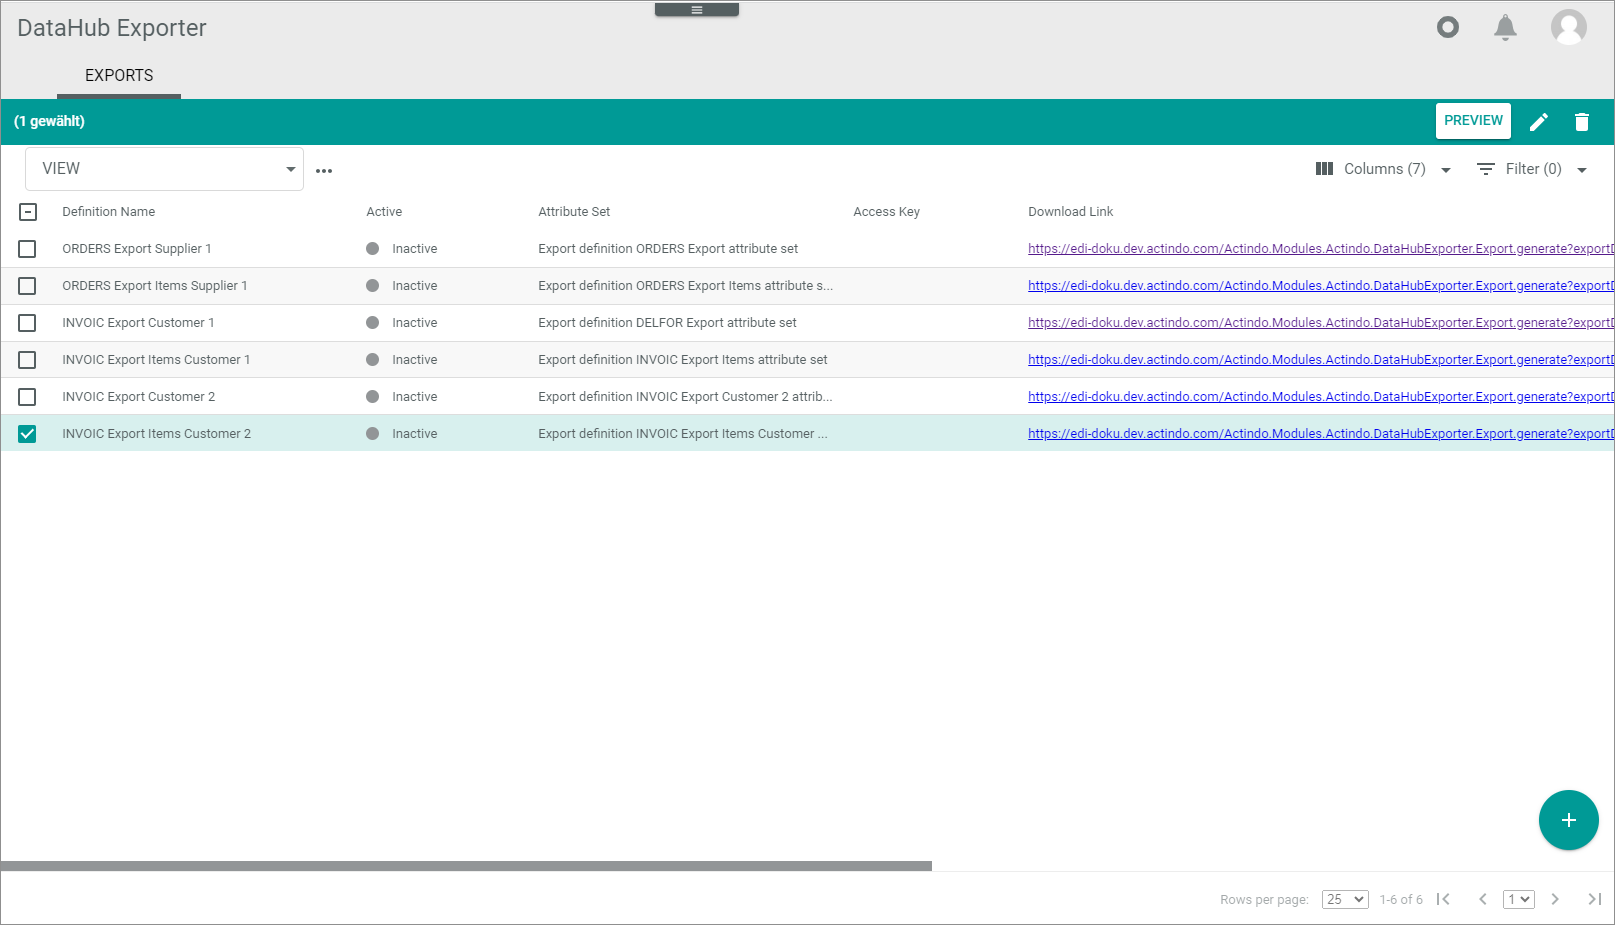
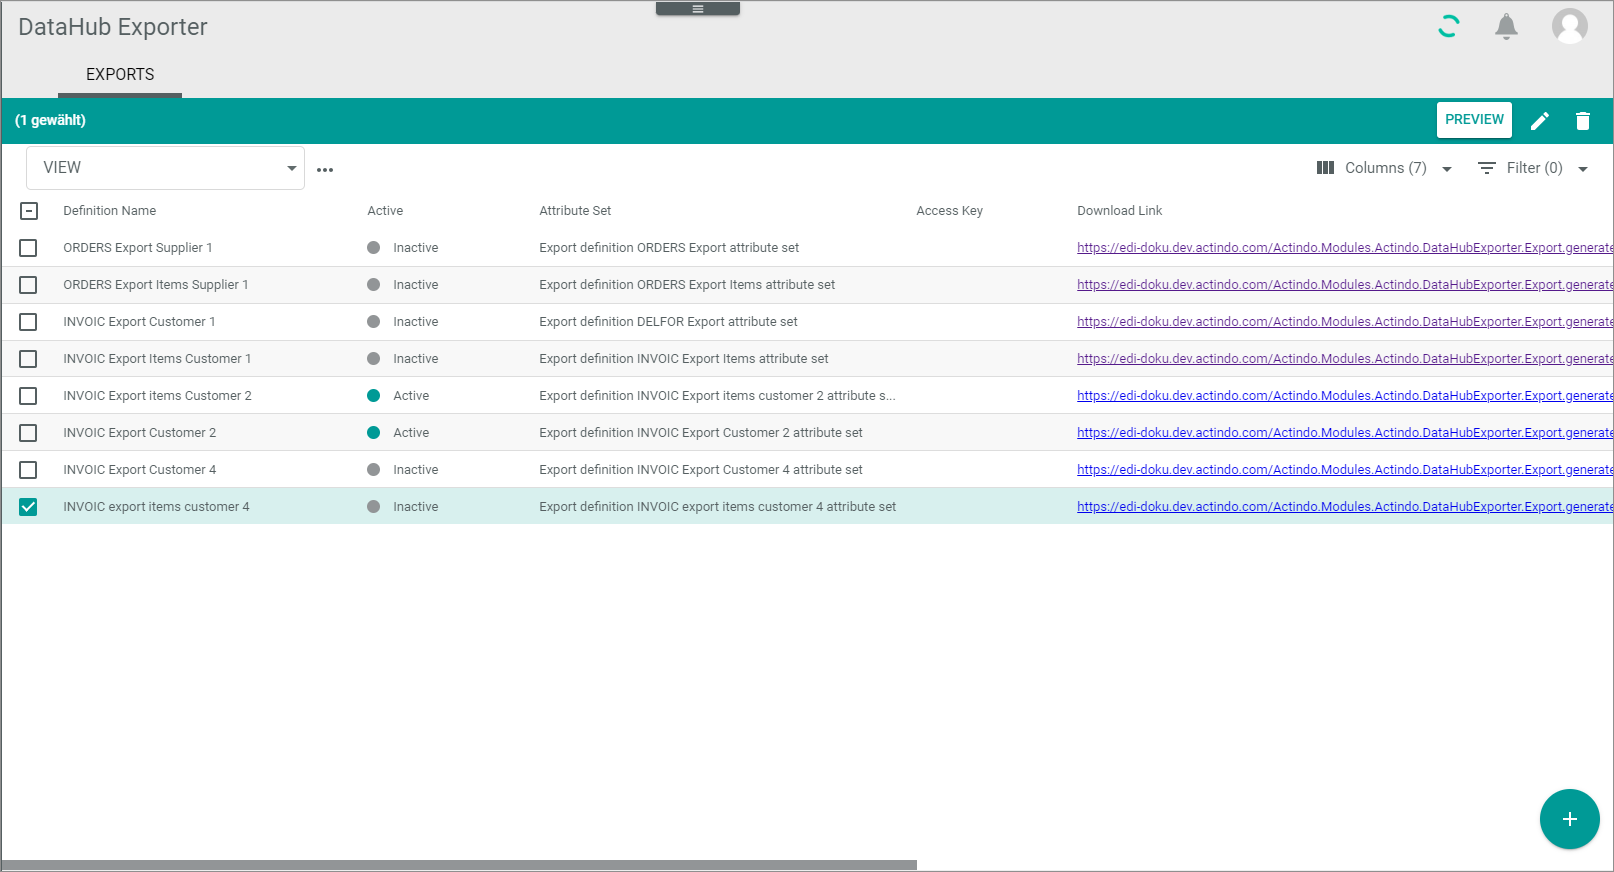
ACD-947

diff --git a/EDI/Operation/01_ManageDefinitions.md b/EDI/Operation/01_ManageDefinitions.md
@@ -43,7 +43,7 @@ Define basic data for the export definition. You must define a definition settin
            
     For example, *INVOIC Export items "customer name"*.
 
-3. Click the *Template engine* drop-down list and select the **XmlExportTemplateEngine**.
+3. Click the *Template engine* drop-down list and select the **XmlExportTemplateEngine**.   
     The view has been changed. Two tabs are inserted now, the *Settings* tab and the *File settings* tab. The *Settings* tab is displayed.
 
     ![Tabs added](../../Assets/Screenshots/EDI/Operation/ExportDefinitionCreateAfterSelection.png "[Tabs added]")
@@ -123,9 +123,9 @@ After you have configured the entire definition, you can preview the message tha
 
 ![Export definitions](../../Assets/Screenshots/EDI/Operation/ExportDefinitions.png "[Export definitions]")
 
-1. Click the checkbox of the definition you want to preview.   
-    The toolbar is displayed. Alternatively, you can click the download link of a definition in the list to output the preview directly.
-    The toolbar is displayed.
+1. Click the checkbox of the definition you want to preview. Alternatively, you can click the download link of a definition in the list to output the preview directly.   
+    The toolbar is displayed. 
+    
 
     ![Toolbar](../../Assets/Screenshots/EDI/Operation/ExportDefinitionToolbar.png "[Toolbar]")
 
@@ -134,12 +134,13 @@ After you have configured the entire definition, you can preview the message tha
 
     ![Preview](../../Assets/Screenshots/EDI/Operation/ExportDefinitionPreview.png "[Preview]")
 
+<!----Weglassen? 
 3. If desired, and you do not want to define the preview attributes before, click the *Export all* toggle to preview all definitions at once. Prerequisite for this is that the *Entity type* in the *Data source* definition is filled, see [Define data sources](./04_ManageDataSources.md#define-data-sources).
     The window displays the *Preview all* toggle only.
 
-    ![Preview all](../../Assets/Screenshots/EDI/Operation/ExportDefinitionPreviewAll.png "[Preview all]")
+    ![Preview all](../../Assets/Screenshots/EDI/Operation/ExportDefinitionPreviewAll.png "[Preview all]")-->
 
-4. If you want to define the preview attributes before, click the *Entity type* drop-down list and select the **Retail suite business document** resp. the **Retail suite business document position** entry.
+4. If you want to define the preview attributes before, click the *Entity type* drop-down list and select the **Retail suite business document** resp. the **Retail suite business document position** entry. Alternatively, you can use any other data source or entity types that you need for sending the EDIFACT messages.
 
 5. Enter **31** in the *Primary identifier* field.
 
@@ -164,9 +165,9 @@ Activate the definition to be able to send messages of the defined type to the b
 
 *DataHub Exporter > Exports*
 
-![Export definitions](../../Assets/Screenshots/EDI/Operation/ExportDefinitions.png "[Export definitions]")
+![Exporter definitions](../../Assets/Screenshots/EDI/Operation/ExportDefinitions.png "[Exporter definitions]")
 
-1. Click the definition you want to activate
+1. Click the definition you want to activate.   
     The *Edit definition "definition name"* view is displayed. The *SETTINGS* tab is displayed by default.
 
     ![Edit definition](../../Assets/Screenshots/EDI/Operation/ExportDefinitionEdit.png "[Edit definition]")
@@ -174,8 +175,10 @@ Activate the definition to be able to send messages of the defined type to the b
 2. Click the *Active* toggle.   
     The toggle is highlighted.
 
+    ![Activate definition](../../Assets/Screenshots/EDI/Operation/ExportDefinitionActivate.png "[Activate definition]")
+
 3. Click the [SAVE] button.  
-    The definition is activated, and you can send messages now. 
+    The *Exporter definitions* view is displayed. The status in the *Active* column has switched to *Active*. The definition is activated, and you can send messages now. 
 
 
 
@@ -193,12 +196,12 @@ Deactivate a definition if you no longer need it.
 
 *DataHub Exporter > Exports*
 
-![Export definitions](../../Assets/Screenshots/EDI/Operation/ExportDefinitions.png "[Export definitions]")
+![Exporter definitions](../../Assets/Screenshots/EDI/Operation/ExportDefinitions.png "[Exporter definitions]")
 
-1. Click the definition you want to deactivate.
+1. Click the definition you want to deactivate.   
     The *Edit definition "definition name"* view is displayed. The *SETTINGS* tab is displayed by default.
 
-    ![Edit definition](../../Assets/Screenshots/EDI/Operation/ExportDefinitionEdit.png "[Edit definition]")
+    ![Edit definition](../../Assets/Screenshots/EDI/Operation/ExportDefinitionActivate.png "[Edit definition]")
 
 2. Click the *Active* toggle.   
     The toggle is no longer highlighted.
@@ -225,7 +228,7 @@ Delete a definition if you no longer need it. You can delete several definitions
 
 ![Export definitions](../../Assets/Screenshots/EDI/Operation/ExportDefinitions.png "[Export definitions]")
 
-1. Click the checkbox of the definition(s) you want to delete.
+1. Click the checkbox of the definition(s) you want to delete.   
     The toolbar is displayed.
 
     ![Delete definition](../../Assets/Screenshots/EDI/Operation/ExportDefinitionToolbar.png "[Delete definition]")

diff --git a/EDI/Integration/01_ManageConnections.md b/EDI/Integration/01_ManageConnections.md
@@ -45,7 +45,10 @@ Create a connection to a certain message receiver.
 
     ![Sychronization triggered](../../Assets/Screenshots/EDI/Integration/SynchTriggeredSucessfully.png "[Synchronization triggered]")
 
-    The *Connections* view is displayed, the newly created connection is added. After successful synchronization, the entry is activated automatically. Eventually, you must refresh the application to see the *Active* status.
+    The *Connections* view is displayed, the newly created connection is added. After successful synchronization, the entry is activated automatically. You may have to refresh the application to see the *Active* status.
+
+ 6. If necessary, click the ![Refresh](../../Assets/Icons/Refresh01.png "[Refresh]") (Refresh) button to update the list of connections.   
+    The status of the connection in the *Status* column has switched to **Active**.
 
 
 

diff --git a/EDI/Operation/02_ManageHeaderFileSett.md b/EDI/Operation/02_ManageHeaderFileSett.md
@@ -26,7 +26,7 @@ You can add constant values as well as strings that are to be determined via att
 1. Click the definition for which you want to specify the header file settings.   
     The *Edit definition "definition name"* view is displayed. The *Settings* tab is displayed by default.
 
-    ![Edit definition](../../Assets/Screenshots/EDI/Operation/ExportDefinitionEdit.png "[Edit definition]")
+    ![Edit definition](../../Assets/Screenshots/EDI/Operation/ "[Edit definition]")
 
 2. Click the *File settings* tab.   
     The *File settings* tab is displayed.
